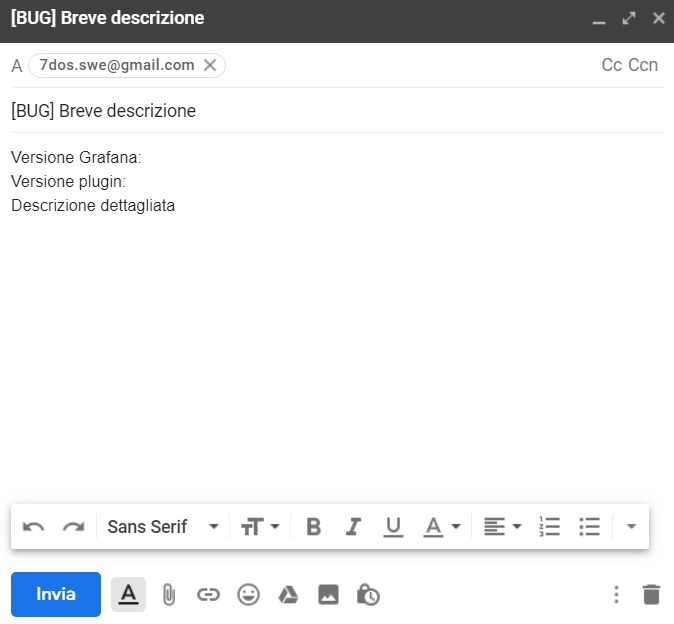
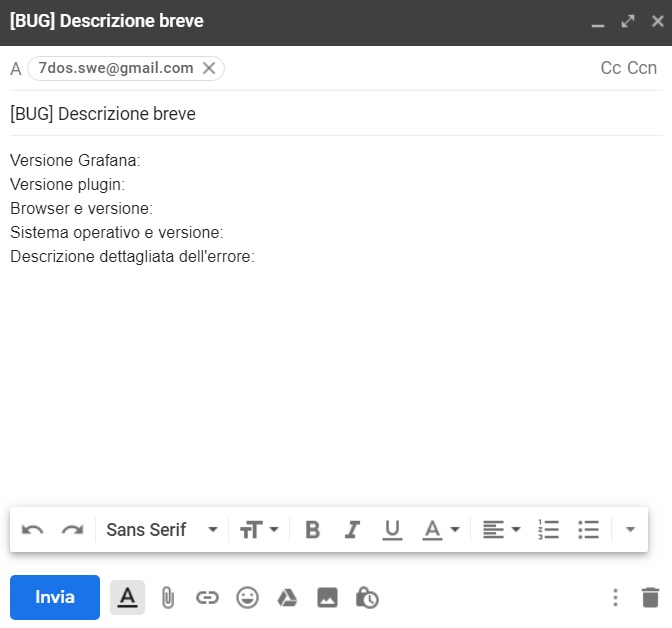
Fix segnalazioni

diff --git a/ManualeUtente/Res/Sezioni/Errori.tex b/ManualeUtente/Res/Sezioni/Errori.tex
@@ -1,25 +1,39 @@
 \newsection{Segnalazione errori}
-Nel caso in cui dovessero essere riscontrati eventuali errori o criticità è possibile segnalarli attraverso l'indirizzo email del gruppo oppure aprendo una segnalazione nell'apposita sezione \gl{issue} della \gl{repository} in cui risiede il plugin.
+Nel caso in cui dovessero essere riscontrati eventuali errori o criticità è possibile segnalarli attraverso l'indirizzo email del gruppo oppure aprendo una segnalazione nell'apposita sezione issue della repository in cui risiede il plugin.
 
-\subsection{Segnalazione per email}
+\subsection{Segnalazione con email}
 L'indirizzo del gruppo è: {\url{7dos.swe@gmail.com}}. \\
 Inserire nell'oggetto la segnatura [BUG] per segnalare che si tratta di un errore, seguita da una breve e concisa descrizione dello stesso.
-Indicare nel corpo dell'email la versione di Grafana usata, la versione del plugin ed una descrizione dettagliata dell'errore riscontrato.
+Indicare nel corpo dell'email:
+\begin{itemize}
+	\item Versione di Grafana;
+	\item Versione del plugin;
+	\item Browser e relativa versione;
+	\item Sistema operativo e relativa versione;
+	\item Descrizione dettagliata dell'errore.
+\end{itemize}
 
 \begin{figure} [H]
 	\centering
 	\includegraphics[scale=0.9]{Img/email.jpg} 
-	\caption{Template email} \label{} 
+	\caption{Template email per segnalazioni} \label{} 
 \end{figure} 
 
 \subsection{Segnalazione con issue}
 La root del plugin è: \url{https://github.com/NicoloTartaggia/7DOS-plugin}. \\
 Posizionarsi nella sezione \emph{"Issues"} e premere il pulsante \emph{"New issue"}. Inserire nel titolo la segnatura [BUG] per segnalare che si tratta di un errore, seguita da una breve e concisa descrizione dello stesso.
-Indicare nel corpo della issue la versione di Grafana usata, la versione del plugin ed una descrizione dettagliata dell'errore riscontrato.
+Indicare nel corpo della issue:
+\begin{itemize}
+	\item Versione di Grafana;
+	\item Versione del plugin;
+	\item Browser e relativa versione;
+	\item Sistema operativo e relativa versione;
+	\item Descrizione dettagliata dell'errore.
+\end{itemize}
 \begin{figure} [H]
 	\centering
 	\includegraphics[scale=0.9]{Img/issue.jpg} 
-	\caption{Template issue} \label{} 
+	\caption{Template issue per segnalazioni} \label{} 
 \end{figure} 
 
 \newpage
